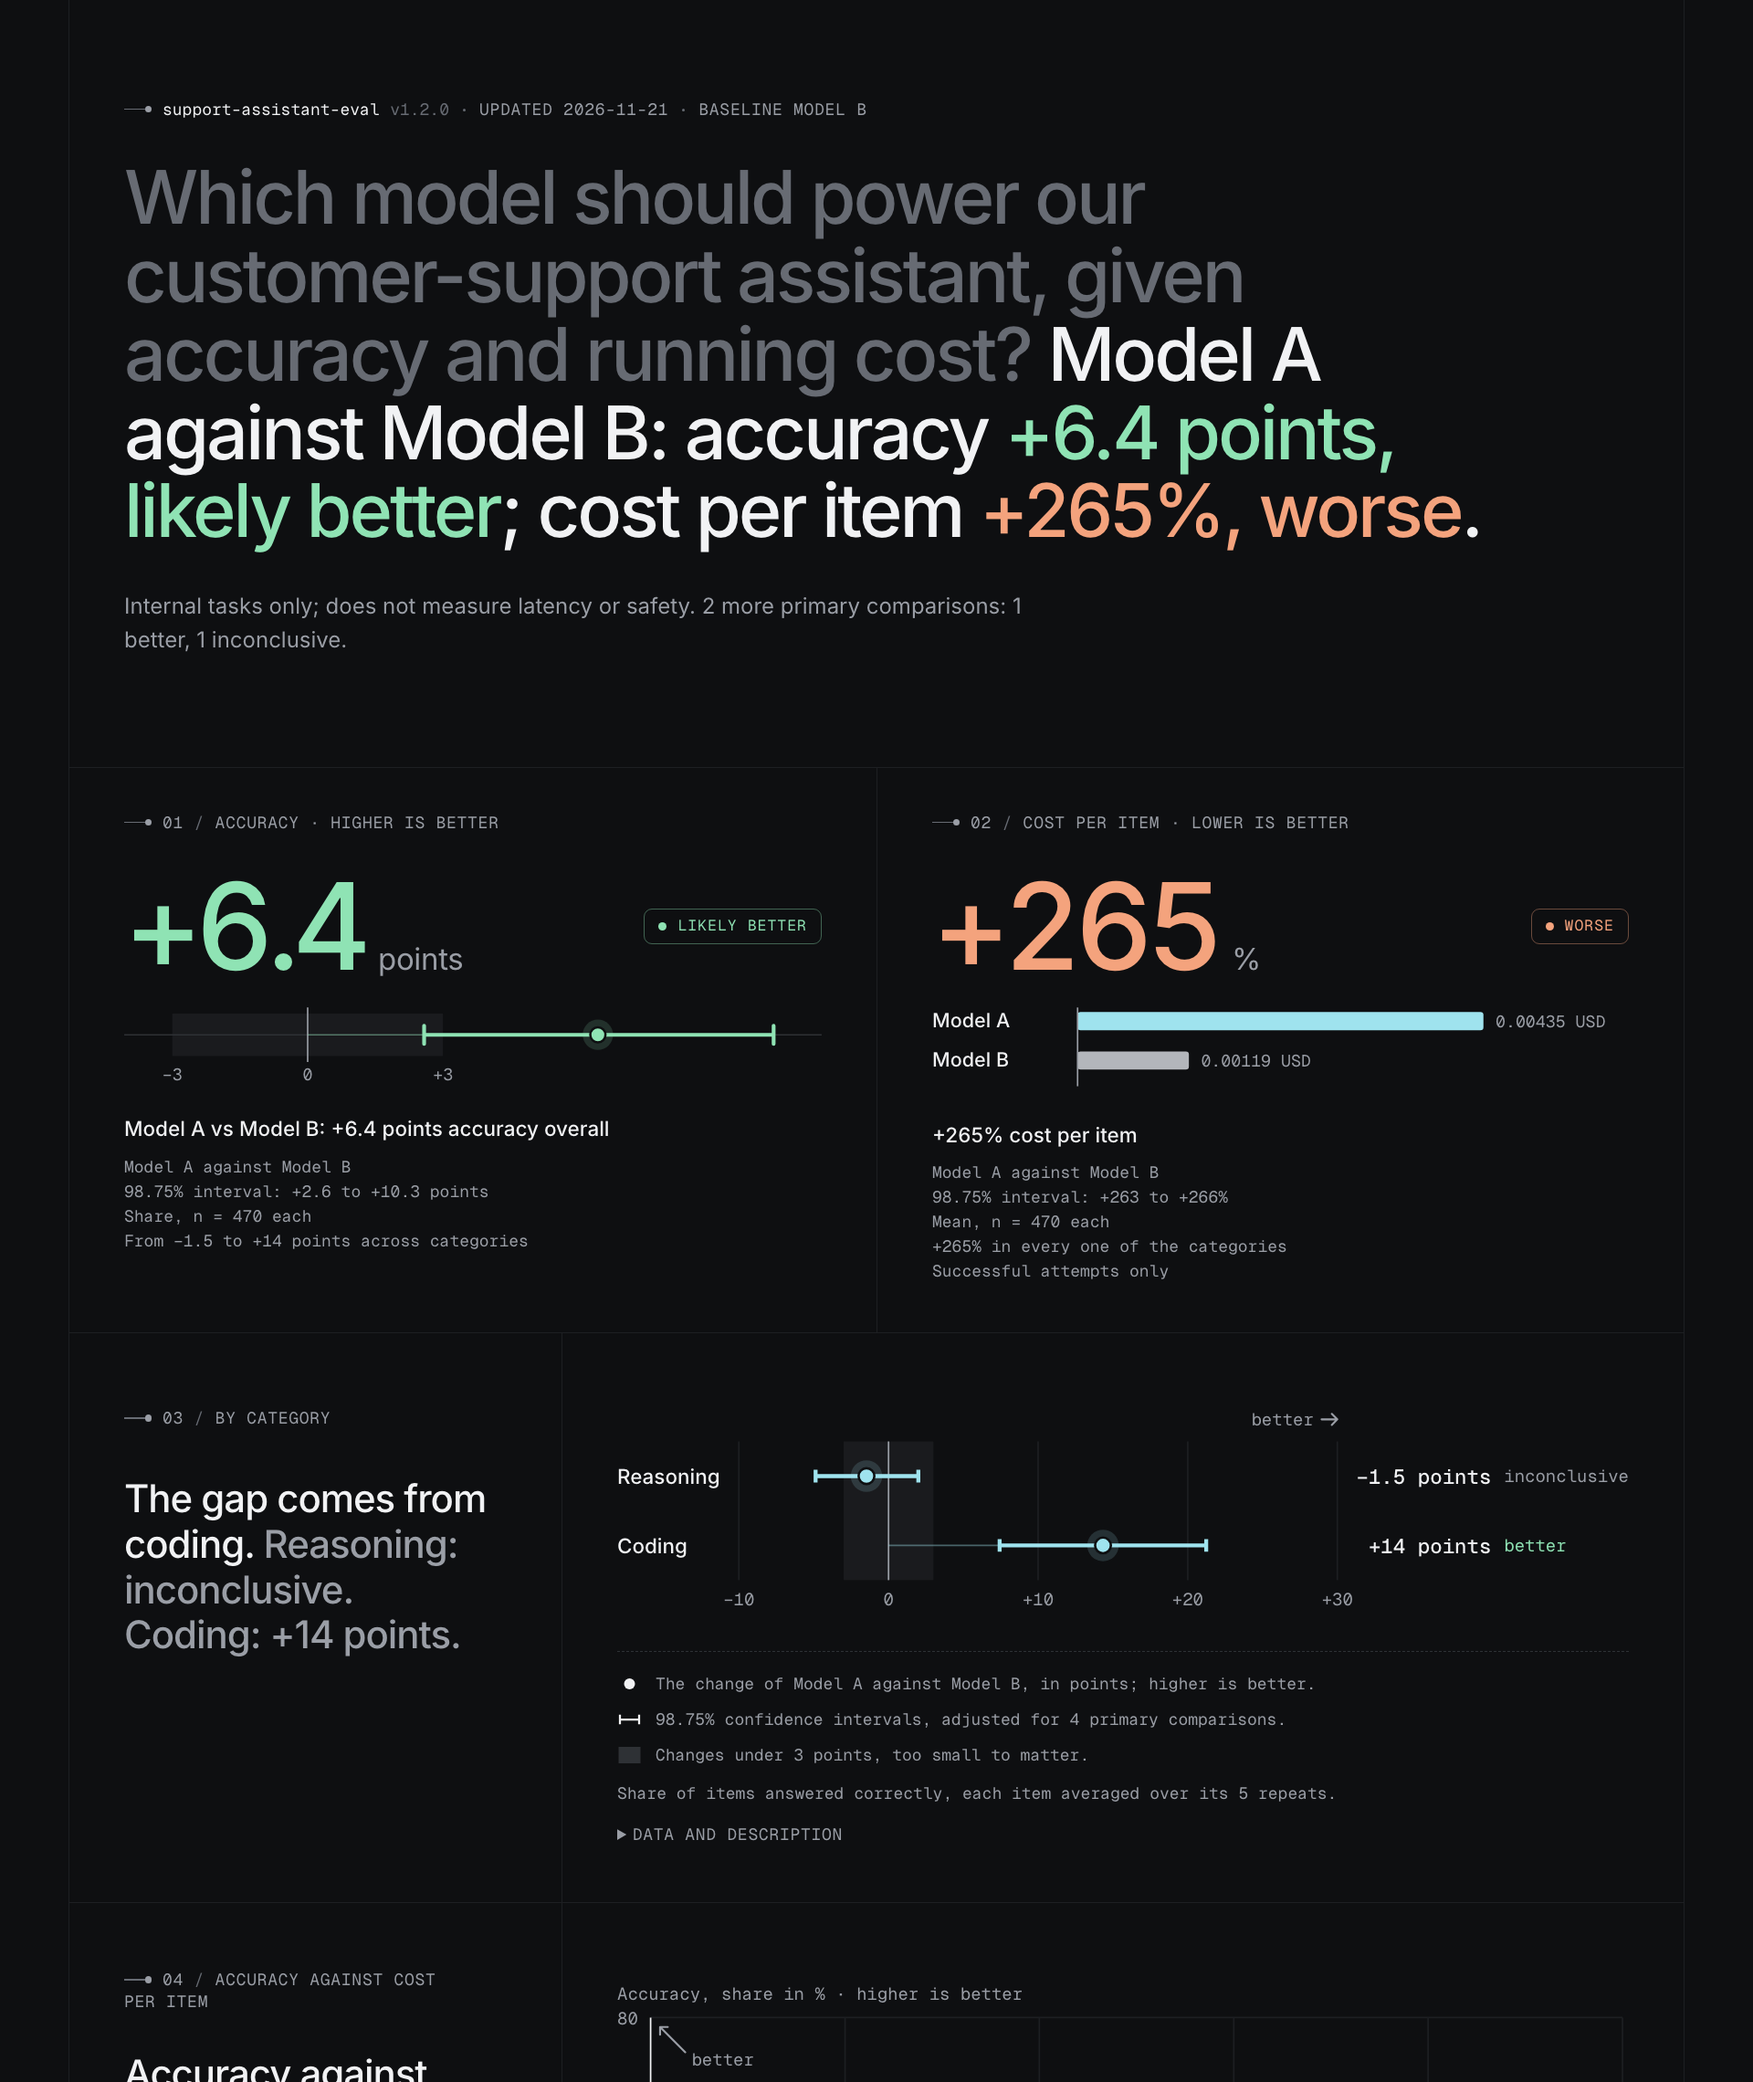
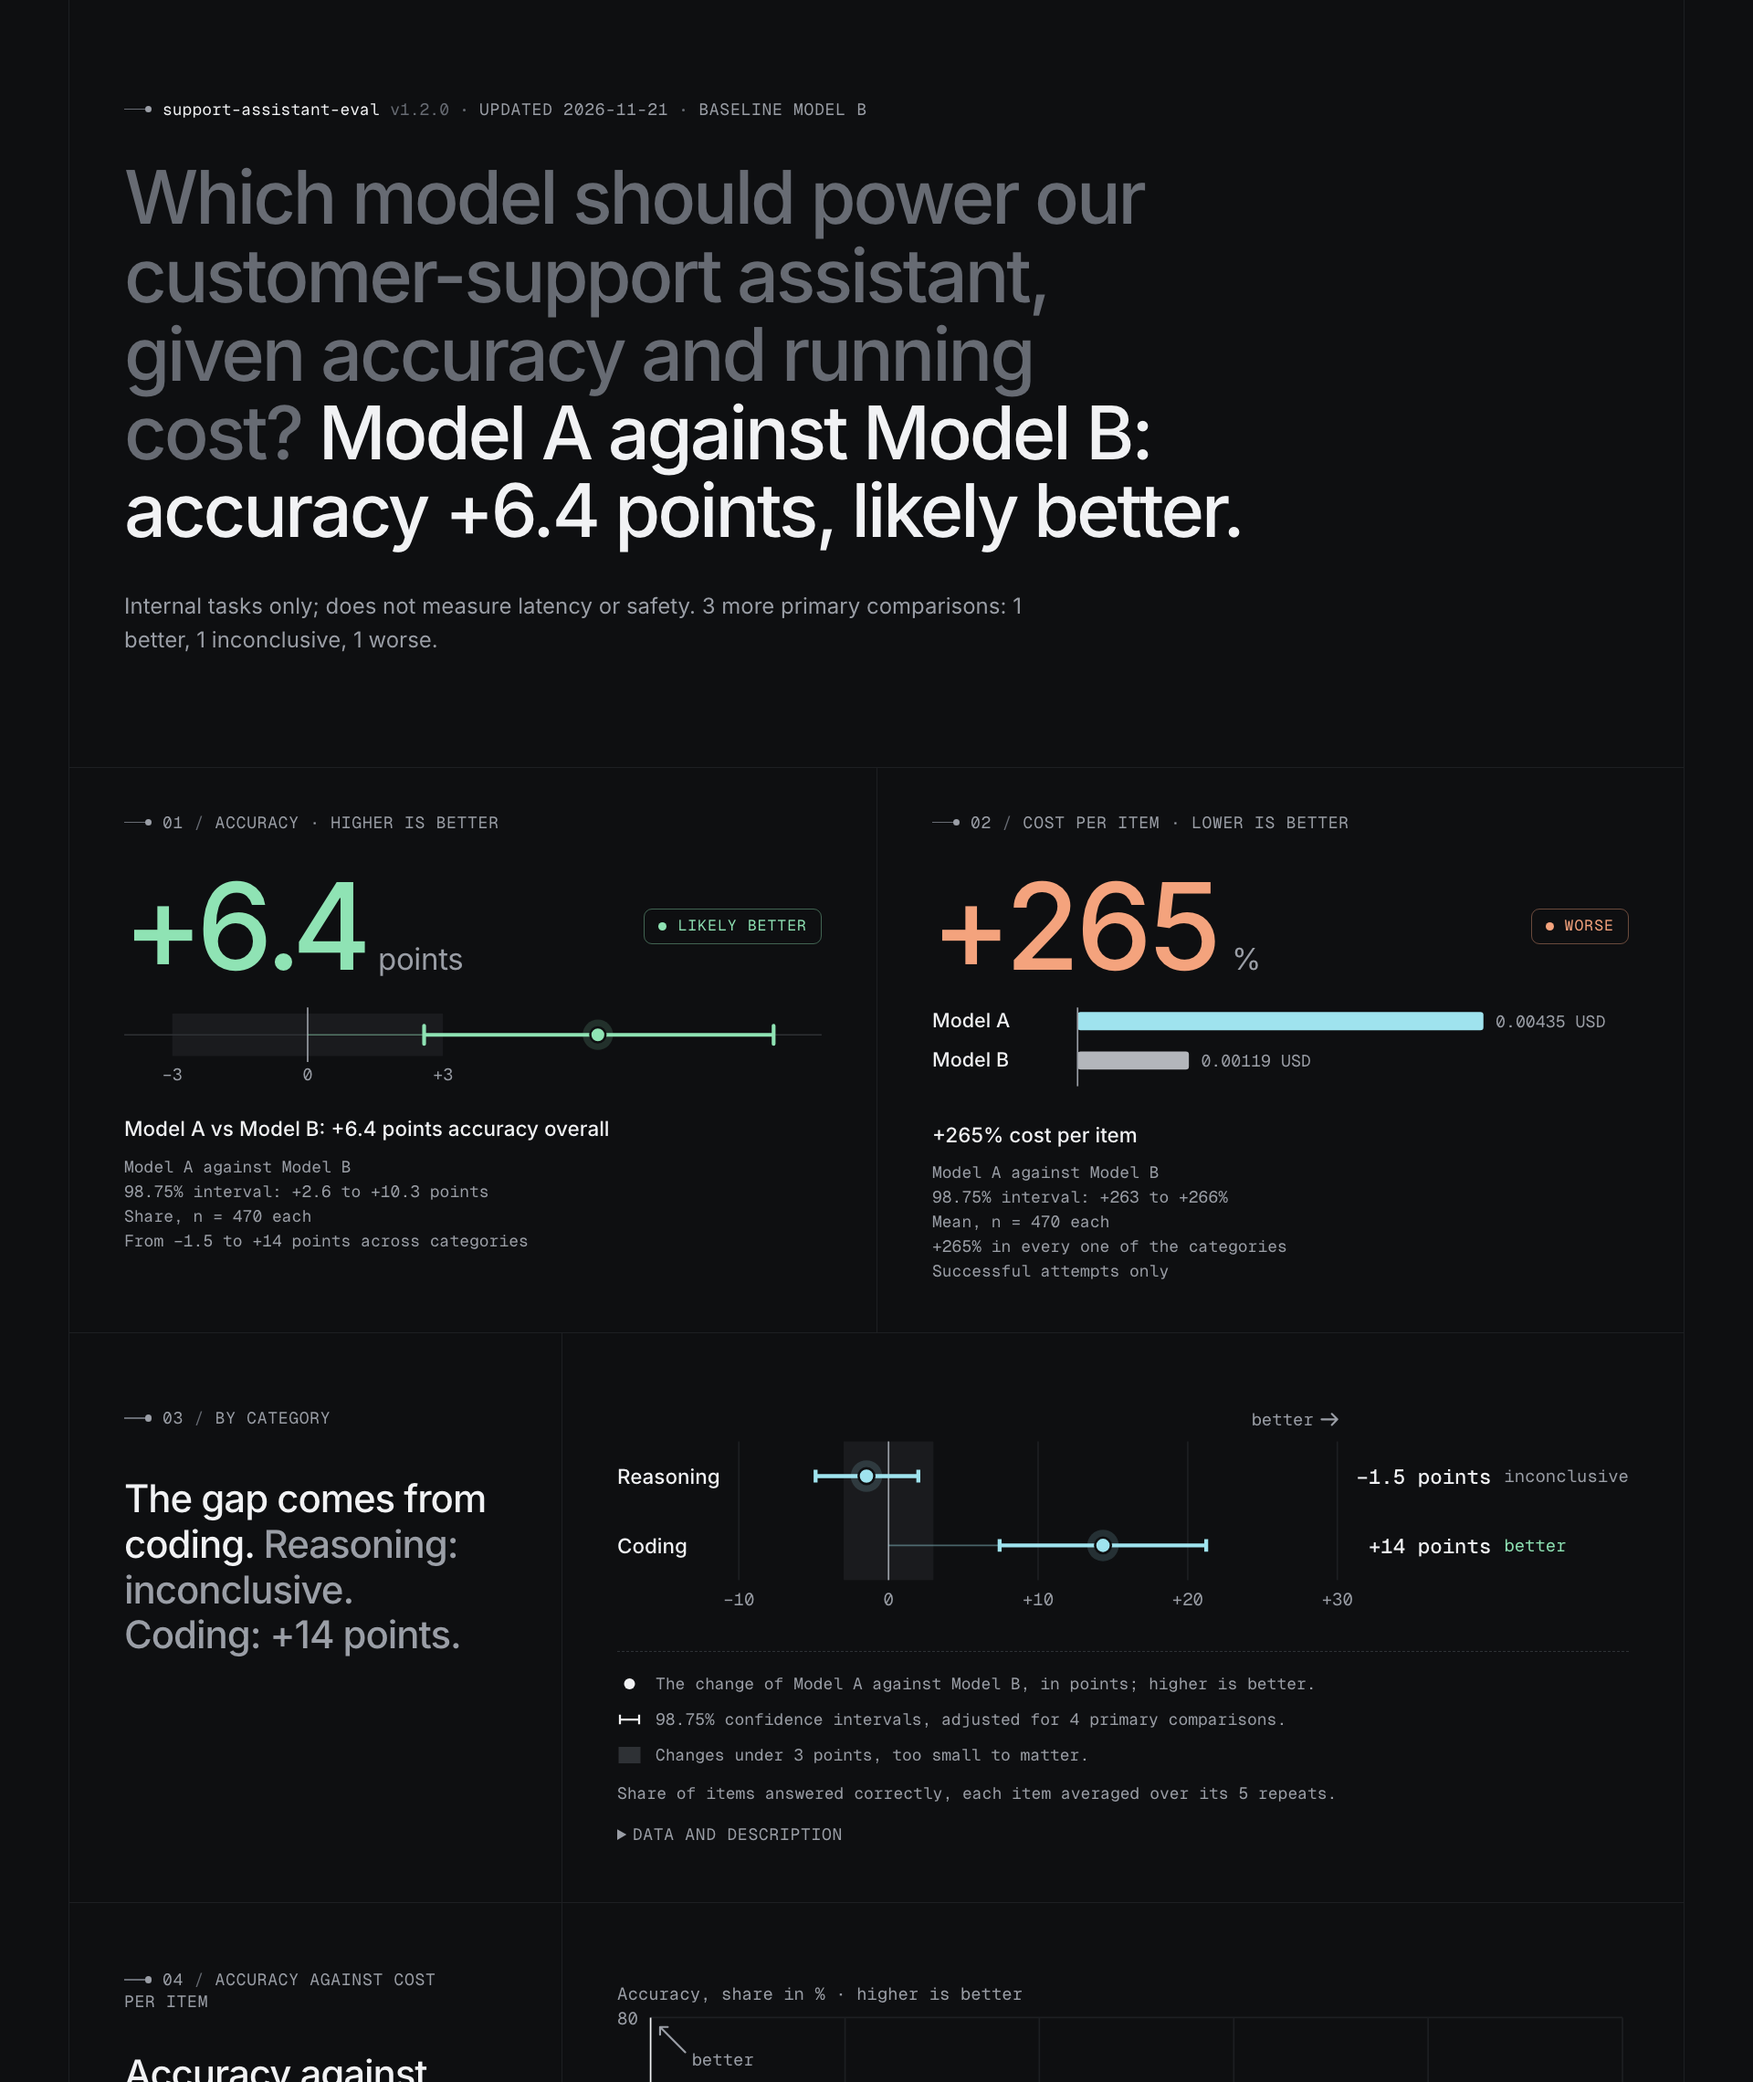
Simplify the site answer to one lead claim and a count of the rest
The headline now names only the lead comparison in ink, with no verdict colours. The other primary comparisons are summarised as a count in the lede. Splitting the answer this way keeps the headline to one claim and removes the per-verdict colouring the old multi-claim sentence needed.

Changed region(s): [[0.0625, 0.1246, 0.8438, 0.2803]]

diff --git a/src/render/site/write-site.ts b/src/render/site/write-site.ts
@@ -4,11 +4,10 @@ import type { RawFile } from "../../compute/raw-data.js";
 import type { Benchmark } from "../../schema/benchmark.js";
 import { THEME } from "../../themes/astrolabe.js";
 import type { Comparison } from "../../schema/benchmark.js";
-import { cardAltText, cardContentOf, MAX_HEADLINES, measuredOf, pairOf, renderCard } from "../card.js";
+import { cardAltText, cardContentOf, measuredOf, pairOf, renderCard } from "../card.js";
 import { effectAndInterval, lookupOf, lowerFirstLetterOfWord, verdictLabel, type BuildContext } from "../describe.js";
 import { exportPlanOf, IMAGE_SIZES, renderImage } from "../exports.js";
 import { pngOf } from "../png.js";
-import { toneOf } from "./headline-figure.js";
 import { pageModeOf, renderPage, type PageHead } from "./page.js";
 import { FONT_FILES, pageStyle } from "./page-style.js";
 
@@ -66,70 +65,50 @@ function previewImageOf(benchmark: Benchmark, context: BuildContext, rawFiles: R
   return { png: pngOf(card.svg, 1), alt: card.alt };
 }
 
-/**
- * The answer in one sentence, from every primary comparison: the claims a reader came for, each with
- * the group it is measured on, its effect and its verdict.
- */
 const VERDICTS_IN_READING_ORDER = ["better", "likely better", "equivalent", "inconclusive", "likely worse", "worse"];
 
-/** The comparisons the answer names: those the page leads with when there are more than a card holds. */
-function namedClaimsOf(benchmark: Benchmark, claims: Comparison[]): Comparison[] {
-  if (claims.length <= MAX_HEADLINES) return claims;
-
+/** The comparison the answer names: the first headline's, or else the first primary comparison. */
+function leadClaimOf(benchmark: Benchmark, claims: Comparison[]): Comparison | undefined {
   const headlined = (benchmark.blocks ?? []).flatMap((block) =>
     block.type === "headline" && "comparison" in block ? claims.filter((claim) => claim.id === block.comparison) : [],
   );
 
-  return (headlined.length > 0 ? [...new Set(headlined)] : claims).slice(0, MAX_HEADLINES);
+  return headlined[0] ?? claims[0];
 }
 
-/** A piece of the answer: a claim carries the tone of its verdict, so the page can colour it beside its words. */
-export interface AnswerPart {
-  text: string;
-  tone?: "good" | "bad" | "neutral";
-  /** The count of the claims left out, said after the answer rather than in it. */
-  aside?: boolean;
+/** The answer under the question: one claim, so the headline says one thing, then a count of the other primary comparisons. */
+export interface Answer {
+  claim?: string;
+  others?: string;
 }
 
-export function answerPartsOf(benchmark: Benchmark): AnswerPart[] {
+export function answerPartsOf(benchmark: Benchmark): Answer {
   const lookup = lookupOf(benchmark.results);
   const claims = (benchmark.results.comparisons ?? []).filter((comparison) => comparison.role === "primary");
-  const named = namedClaimsOf(benchmark, claims);
-  const others = claims.filter((claim) => !named.includes(claim));
-  const byPair = new Map<string, Comparison[]>();
+  const lead = leadClaimOf(benchmark, claims);
 
-  for (const comparison of named) byPair.set(pairOf(lookup, comparison), [...(byPair.get(pairOf(lookup, comparison)) ?? []), comparison]);
+  if (!lead) return {};
 
-  const parts: AnswerPart[] = [];
+  const metric = lookup.metricById.get(lead.metric)!;
+  const claim = `${pairOf(lookup, lead)}: ${lowerFirstLetterOfWord(measuredOf(lookup, lead))} ${effectAndInterval(metric, lead).effect}, ${verdictLabel(lead)}.`;
+  const others = claims.filter((other) => other !== lead);
 
-  [...byPair.entries()].forEach(([pair, comparisons], index) => {
-    parts.push({ text: `${index > 0 ? " " : ""}${pair}: ` });
-    comparisons.forEach((comparison, position) => {
-      const metric = lookup.metricById.get(comparison.metric)!;
+  if (others.length === 0) return { claim };
 
-      parts.push({ text: `${position > 0 ? "; " : ""}${lowerFirstLetterOfWord(measuredOf(lookup, comparison))} ` });
-      parts.push({ text: `${effectAndInterval(metric, comparison).effect}, ${verdictLabel(comparison)}`, tone: toneOf(comparison) });
-    });
-    parts.push({ text: "." });
+  const counts = VERDICTS_IN_READING_ORDER.flatMap((verdict) => {
+    const count = others.filter((other) => verdictLabel(other) === verdict).length;
+
+    return count > 0 ? [`${count} ${verdict}`] : [];
   });
 
-  if (others.length > 0) {
-    const counts = VERDICTS_IN_READING_ORDER.flatMap((verdict) => {
-      const count = others.filter((claim) => verdictLabel(claim) === verdict).length;
-
-      return count > 0 ? [`${count} ${verdict}`] : [];
-    });
-
-    parts.push({ text: ` ${others.length} more primary comparison${others.length === 1 ? "" : "s"}: ${counts.join(", ")}.`, aside: true });
-  }
-
-  return parts;
+  return { claim, others: `${others.length} more primary comparison${others.length === 1 ? "" : "s"}: ${counts.join(", ")}.` };
 }
 
-export const answerOf = (benchmark: Benchmark) =>
-  answerPartsOf(benchmark)
-    .map((part) => part.text)
-    .join("");
+export const answerOf = (benchmark: Benchmark) => {
+  const { claim, others } = answerPartsOf(benchmark);
+
+  return [claim, others].filter(Boolean).join(" ");
+};
 
 /**
  * The site in one folder: the page with every filter state, its style, script and font, a copy of the

diff --git a/src/render/site/page.ts b/src/render/site/page.ts
@@ -4,7 +4,7 @@ import { MAX_HEADLINES } from "../card.js";
 import { lookupOf, provenanceParts } from "../describe.js";
 import { blockHtml, downloadLinksOf, sectionLabel, sectionLabelsOf, type PageInputs } from "./blocks.js";
 import { CHAPTER_HEAD_WIDTH, GUTTER, PAGE_WIDTH } from "./page-style.js";
-import type { AnswerPart } from "./write-site.js";
+import type { Answer } from "./write-site.js";
 import { escapeHtml } from "./html.js";
 
 const ASTROLABE_REPOSITORY = "https://github.com/mavdol/astrolabe";
@@ -65,8 +65,8 @@ export interface PageHead {
   /** The preview image, relative to the site, with its text alternative. */
   previewImage?: { path: string; alt: string; width: number; height: number };
   description: string;
-  /** The same answer in parts, each claim with the tone of its verdict. */
-  answer: AnswerPart[];
+  /** The same answer in parts: the claim under the question, the count of the others in the lede. */
+  answer: Answer;
 }
 
 /**
@@ -117,12 +117,6 @@ function headHtml(benchmark: Benchmark, head: PageHead): string {
 
 /** The width of a chart beside its claim, inside the page's frame. */
 export const CHAPTER_FIGURE_WIDTH = PAGE_WIDTH - CHAPTER_HEAD_WIDTH - 2 * GUTTER - 2;
-
-const answerHtml = (parts: AnswerPart[]) =>
-  parts
-    .map((part) => (part.tone ? `<span class="${part.tone}">${escapeHtml(part.text)}</span>` : escapeHtml(part.text)))
-    .join("")
-    .trim();
 
 /** A part of the page as the ruler lists it: where it starts, its number and its name. */
 interface RulerEntry {
@@ -248,9 +242,11 @@ export function renderPage(inputs: Omit<PageInputs, "lookup" | "sectionLabels">,
     ...downloadLinksOf(pageInputs),
   ].map((part) => `<span>${part}</span>`);
   const credit = provenance.attribution ? `<span class="credit"><a href="${ASTROLABE_REPOSITORY}">Built with Astrolabe</a></span>` : "";
-  const claims = head.answer.filter((part) => !part.aside);
-  const aside = head.answer.filter((part) => part.aside);
-  const lede = [escapeHtml(results.benchmark.scope ?? ""), answerHtml(aside)].filter(Boolean).join(" ");
+  const lede = [results.benchmark.scope, head.answer.others]
+    .filter((text): text is string => Boolean(text))
+    .map(escapeHtml)
+    .join(" ");
+  const answer = head.answer.claim ? ` <span class="answer">${escapeHtml(head.answer.claim)}</span>` : "";
 
   return [
     "<!doctype html>",
@@ -263,7 +259,7 @@ export function renderPage(inputs: Omit<PageInputs, "lookup" | "sectionLabels">,
     '<main id="top">',
     '<section class="hero">',
     `<p class="mono-label hero-label"><span><span class="tick-mark" aria-hidden="true"></span><span class="benchmark-name">${escapeHtml(results.benchmark.id)}</span> <span class="benchmark-version">v${escapeHtml(results.benchmark.version)}</span></span> <span>updated ${escapeHtml(provenance.date)}</span> <span>baseline ${escapeHtml(lookup.candidateName.get(results.baseline)!)}</span></p>`,
-    `<h1><span class="question">${escapeHtml(results.benchmark.goal)}</span> <span class="answer">${answerHtml(claims)}</span></h1>`,
+    `<h1><span class="question">${escapeHtml(results.benchmark.goal)}</span>${answer}</h1>`,
     lede ? `<p class="lede">${lede}</p>` : "",
     "</section>",
     ...sections,

diff --git a/tests/site.test.ts b/tests/site.test.ts
@@ -158,26 +158,25 @@ describe("the site", () => {
     expect(support.css).toContain(".segmented input:focus-visible + span { outline: 2px solid var(--ink)");
   });
 
-  it("answers the question in the headline with the comparisons the page leads with, each in the colour of its verdict, and counts the others below it", () => {
+  it("answers the question in the headline with the one comparison the page leads with, in ink without verdict colours, and counts the others below it", () => {
     const answer =
-      "Model A against Model B: accuracy +6.4 points, likely better; cost per item +265%, worse. 2 more primary comparisons: 1 better, 1 inconclusive.";
+      "Model A against Model B: accuracy +6.4 points, likely better. 3 more primary comparisons: 1 better, 1 inconclusive, 1 worse.";
 
+    expect(support.html).toContain('<span class="answer">Model A against Model B: accuracy +6.4 points, likely better.</span></h1>');
     expect(support.html).toContain(
-      '<span class="answer">Model A against Model B: accuracy <span class="good">+6.4 points, likely better</span>; cost per item <span class="bad">+265%, worse</span>.</span></h1>',
-    );
-    expect(support.html).toContain(
-      '<p class="lede">Internal tasks only; does not measure latency or safety. 2 more primary comparisons: 1 better, 1 inconclusive.</p>',
+      '<p class="lede">Internal tasks only; does not measure latency or safety. 3 more primary comparisons: 1 better, 1 inconclusive, 1 worse.</p>',
     );
     expect(support.html).toContain(`<meta name="description" content="${answer}">`);
   });
 
-  it("names the first primary comparisons when no headline leads the page", () => {
+  it("names the first primary comparison when no headline leads the page", () => {
     const benchmark = loadBenchmark("support-assistant-eval");
 
     benchmark.blocks = benchmark.blocks?.filter((block) => block.type !== "headline");
+    benchmark.results.comparisons = [...benchmark.results.comparisons!].reverse();
 
     expect(answerOf(benchmark)).toBe(
-      "Model A against Model B: accuracy +6.4 points, likely better; accuracy, Reasoning −1.5 points, inconclusive; accuracy, Coding +14 points, better. 1 more primary comparison: 1 worse.",
+      "Model A against Model B: cost per item +265%, worse. 3 more primary comparisons: 1 better, 1 likely better, 1 inconclusive.",
     );
   });
 
@@ -220,7 +219,7 @@ describe("the site", () => {
     );
     const scripts = { schema_version: SCHEMA_VERSION, results: compute(plan, { data: rawFileOf(rows) }) } as Benchmark;
 
-    expect(answerOf(scripts)).toBe("new against base: wall time, Start-up script +20%, worse; wall time, Parsing script −20%, better.");
+    expect(answerOf(scripts)).toBe("new against base: wall time, Start-up script +20%, worse. 1 more primary comparison: 1 better.");
     expect(cardAltText(scripts, cardContentOf(scripts))).toBe(
       "new against base: wall time, Start-up script (lower is better) +20%, worse; wall time, Parsing script (lower is better) −20%, better.",
     );
